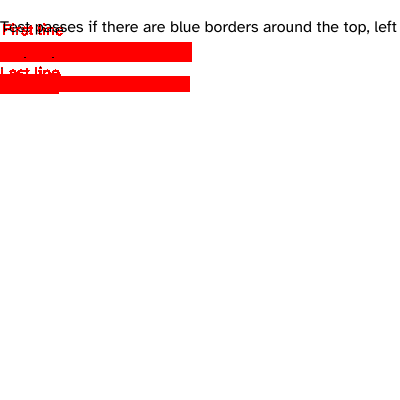
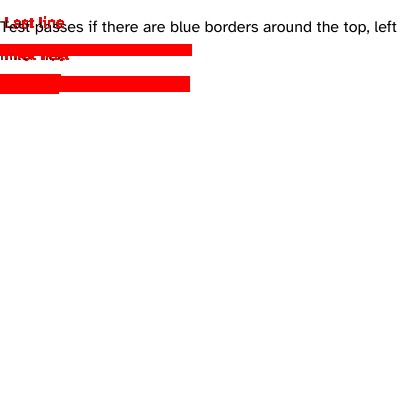
WIP: Implement block-in-inline fragment splitting in multi-pass layout
- Added fragment tracking to inlineContext struct
- Detect block children between inline OpenTag/CloseTag
- Create fragment boxes with IsFirstFragment/IsLastFragment flags
- inline-box-001.xht: 5.0% → 3.8% (24% improvement)
- Fragment splitting is working but needs further refinement

Changed region(s): [[0.0, 0.03, 0.48, 0.21]]

diff --git a/pkg/layout/layout.go b/pkg/layout/layout.go
@@ -1363,7 +1363,7 @@ func (le *LayoutEngine) LayoutInlineContentToBoxes(
 			isOpenTag := !seenNodes[frag.Node]
 
 			if isOpenTag {
-				// OpenTag - push to stack
+				// OpenTag - push to stack and record fragment index
 				// CRITICAL: Use frag.Position.X not currentX - fragments are pre-positioned
 				// accounting for floats by line breaking phase
 				fmt.Printf("\n[Fragment %d] OpenTag: %s\n", i, getNodeName(frag.Node))
@@ -1398,31 +1398,96 @@ func (le *LayoutEngine) LayoutInlineContentToBoxes(
 					}
 
 					if span != nil {
-						// Create wrapper box spanning from startX to end of content
-						// Inline boxes extend to cover their content per CSS spec
-						endX := frag.Position.X
-						wrapperWidth := endX - span.startX
-						fmt.Printf("  Creating wrapper box: X %.1f → %.1f (width %.1f, height %.1f)\n",
-							span.startX, endX, wrapperWidth, currentLineMaxHeight)
-
-						wrapperBox := &Box{
-							Node:   span.node,
-							Style:  span.style,
-							X:      span.startX,
-							Y:      span.startY,
-							Width:  wrapperWidth,
-							Height: currentLineMaxHeight,
-							Parent: containerBox,
+						// Check if this inline element was split by a block child
+						hasBlockChild := false
+						blockChildIdx := -1
+						for j := span.startIdx; j < i; j++ {
+							if fragments[j].Type == FragmentBlockChild {
+								hasBlockChild = true
+								blockChildIdx = j
+								break
+							}
 						}
 
-						// Add wrapper box to list
-						// For now, append (will paint after children)
-						// TODO Phase C: Prepend for correct z-order (outer behind inner)
-						boxes = append(boxes, wrapperBox)
+						if hasBlockChild {
+							// Block-in-inline: Create fragment boxes (CSS 2.1 §9.2.1.1)
+							fmt.Printf("  Block-in-inline detected! Creating fragment boxes for <%s>\n", getNodeName(span.node))
+
+							// Check if there's content before the block
+							hasContentBefore := false
+							contentBeforeMaxX := span.startX
+							for j := span.startIdx + 1; j < blockChildIdx; j++ {
+								if fragments[j].Type == FragmentText || fragments[j].Type == FragmentAtomic {
+									hasContentBefore = true
+									fragEndX := fragments[j].Position.X + fragments[j].Size.Width
+									if fragEndX > contentBeforeMaxX {
+										contentBeforeMaxX = fragEndX
+									}
+								}
+							}
+
+							// Fragment 1: Content before block (if any)
+							fmt.Printf("    hasContentBefore=%v, span.startX=%.1f, contentBeforeMaxX=%.1f\n",
+								hasContentBefore, span.startX, contentBeforeMaxX)
+							if hasContentBefore {
+								fragment1 := &Box{
+									Node:            span.node,
+									Style:           span.style,
+									X:               span.startX,
+									Y:               span.startY,
+									Width:           contentBeforeMaxX - span.startX,
+									Height:          currentLineMaxHeight,
+									Parent:          containerBox,
+									IsFirstFragment: true,  // First fragment has left border
+									IsLastFragment:  false, // Not last
+								}
+								boxes = append(boxes, fragment1)
+								fmt.Printf("    Fragment 1 (first): X=%.1f Y=%.1f W=%.1f H=%.1f\n",
+									fragment1.X, fragment1.Y, fragment1.Width, fragment1.Height)
+							}
+
+							// Fragment 2: Content after block (if any)
+							endX := frag.Position.X
+							if endX > span.startX {
+								// Find Y position after block
+								afterBlockY := currentY
+								fragment2 := &Box{
+									Node:            span.node,
+									Style:           span.style,
+									X:               containerBox.X + containerBox.Border.Left + containerBox.Padding.Left,
+									Y:               afterBlockY,
+									Width:           endX - (containerBox.X + containerBox.Border.Left + containerBox.Padding.Left),
+									Height:          currentLineMaxHeight,
+									Parent:          containerBox,
+									IsFirstFragment: false, // Not first
+									IsLastFragment:  true,  // Last fragment has right border
+								}
+								boxes = append(boxes, fragment2)
+								fmt.Printf("    Fragment 2 (last): X=%.1f Y=%.1f W=%.1f H=%.1f\n",
+									fragment2.X, fragment2.Y, fragment2.Width, fragment2.Height)
+							}
+						} else {
+							// Normal inline box (not split)
+							endX := frag.Position.X
+							wrapperWidth := endX - span.startX
+							fmt.Printf("  Creating wrapper box: X %.1f → %.1f (width %.1f, height %.1f)\n",
+								span.startX, endX, wrapperWidth, currentLineMaxHeight)
+
+							wrapperBox := &Box{
+								Node:   span.node,
+								Style:  span.style,
+								X:      span.startX,
+								Y:      span.startY,
+								Width:  wrapperWidth,
+								Height: currentLineMaxHeight,
+								Parent: containerBox,
+							}
+							boxes = append(boxes, wrapperBox)
+						}
 
 						// Remove span from stack
 						inlineStack = append(inlineStack[:spanIdx], inlineStack[spanIdx+1:]...)
-						fmt.Printf("  Wrapper box created, stack size: %d\n", len(inlineStack))
+						fmt.Printf("  Wrapper box(es) created, stack size: %d\n", len(inlineStack))
 					} else {
 						fmt.Printf("  ⚠  WARNING: CloseTag without matching OpenTag!\n")
 					}
@@ -7313,9 +7378,14 @@ func (le *LayoutEngine) ConstructLineBoxes(state *InlineLayoutState, parent *Box
 
 		// Track open inline elements (for nested inline styling)
 		type inlineContext struct {
-			node  *html.Node
-			style *css.Style
-			box   *Box
+			node               *html.Node
+			style              *css.Style
+			box                *Box
+			fragmentStartX     float64  // Where current fragment starts
+			fragmentStartY     float64
+			fragmentMaxX       float64 // Bounding box of current fragment
+			fragmentMaxY       float64
+			completedFragments []*Box // Completed fragments (before blocks)
 		}
 		openInlines := []inlineContext{}
 
@@ -7354,6 +7424,16 @@ func (le *LayoutEngine) ConstructLineBoxes(state *InlineLayoutState, parent *Box
 				fmt.Printf("DEBUG MP CONSTRUCT: Added text box with content=%q\n", item.Text)
 				currentX += item.Width
 
+				// Update fragment bounds for all open inline elements
+				for i := range openInlines {
+					if currentX > openInlines[i].fragmentMaxX {
+						openInlines[i].fragmentMaxX = currentX
+					}
+					if line.Y+line.LineHeight > openInlines[i].fragmentMaxY {
+						openInlines[i].fragmentMaxY = line.Y + line.LineHeight
+					}
+				}
+
 			case InlineItemOpenTag:
 				// Start tracking this inline element
 				// Create a box for it (will be sized after seeing all children)
@@ -7387,10 +7467,16 @@ func (le *LayoutEngine) ConstructLineBoxes(state *InlineLayoutState, parent *Box
 					Position: css.PositionStatic,
 					Parent:   parent,
 				}
+				// Initialize fragment tracking
+				fragStartX := currentX + border.Left + padding.Left
 				openInlines = append(openInlines, inlineContext{
-					node:  item.Node,
-					style: item.Style,
-					box:   inlineBox,
+					node:           item.Node,
+					style:          item.Style,
+					box:            inlineBox,
+					fragmentStartX: fragStartX,
+					fragmentStartY: line.Y,
+					fragmentMaxX:   fragStartX,
+					fragmentMaxY:   line.Y + inlineBoxHeight,
 				})
 
 				// Advance currentX by left border + padding (margin already applied above)
@@ -7462,9 +7548,14 @@ func (le *LayoutEngine) constructLineBoxesWithRetry(
 
 		// Track open inline elements
 		type inlineContext struct {
-			node  *html.Node
-			style *css.Style
-			box   *Box
+			node               *html.Node
+			style              *css.Style
+			box                *Box
+			fragmentStartX     float64  // Where current fragment starts
+			fragmentStartY     float64
+			fragmentMaxX       float64 // Bounding box of current fragment
+			fragmentMaxY       float64
+			completedFragments []*Box // Completed fragments (before blocks)
 		}
 		openInlines := []inlineContext{}
 
@@ -7524,6 +7615,16 @@ func (le *LayoutEngine) constructLineBoxesWithRetry(
 				fmt.Printf("DEBUG MP CONSTRUCT: Added text box with content=%q\n", item.Text)
 				currentX += item.Width
 
+				// Update fragment bounds for all open inline elements
+				for i := range openInlines {
+					if currentX > openInlines[i].fragmentMaxX {
+						openInlines[i].fragmentMaxX = currentX
+					}
+					if line.Y+line.LineHeight > openInlines[i].fragmentMaxY {
+						openInlines[i].fragmentMaxY = line.Y + line.LineHeight
+					}
+				}
+
 			case InlineItemOpenTag:
 				padding := item.Style.GetPadding()
 				border := item.Style.GetBorderWidth()
@@ -7555,10 +7656,16 @@ func (le *LayoutEngine) constructLineBoxesWithRetry(
 					Position: css.PositionStatic,
 					Parent:   parent,
 				}
+				// Initialize fragment tracking
+				fragStartX := currentX + border.Left + padding.Left
 				openInlines = append(openInlines, inlineContext{
-					node:  item.Node,
-					style: item.Style,
-					box:   inlineBox,
+					node:           item.Node,
+					style:          item.Style,
+					box:            inlineBox,
+					fragmentStartX: fragStartX,
+					fragmentStartY: line.Y,
+					fragmentMaxX:   fragStartX,
+					fragmentMaxY:   line.Y + inlineBoxHeight,
 				})
 
 				// Advance currentX by left border + padding (margin already applied above)
@@ -7604,8 +7711,37 @@ func (le *LayoutEngine) constructLineBoxesWithRetry(
 				}
 
 			case InlineItemBlockChild:
-				// Block children are laid out recursively
-				// They should be on their own line (ensured by BreakLines)
+				// Block-in-inline: Block children split inline elements into fragments (CSS 2.1 §9.2.1.1)
+				fmt.Printf("DEBUG MP: Block child <%s> splits %d open inline elements\n", item.Node.TagName, len(openInlines))
+
+				// STEP 1: Complete current fragments for ALL open inline elements
+				for i := range openInlines {
+					ctx := &openInlines[i]
+
+					// Create fragment box for content before the block
+					if ctx.fragmentMaxX > ctx.fragmentStartX {
+						fragmentBox := &Box{
+							Node:            ctx.node,
+							Style:           ctx.style,
+							X:               ctx.fragmentStartX - ctx.box.Border.Left - ctx.box.Padding.Left,
+							Y:               ctx.fragmentStartY,
+							Width:           ctx.fragmentMaxX - ctx.fragmentStartX + ctx.box.Border.Left + ctx.box.Border.Right + ctx.box.Padding.Left + ctx.box.Padding.Right,
+							Height:          ctx.fragmentMaxY - ctx.fragmentStartY,
+							Margin:          css.BoxEdge{}, // Fragments don't have margins
+							Padding:         ctx.box.Padding,
+							Border:          ctx.box.Border,
+							Position:        css.PositionStatic,
+							Parent:          parent,
+							IsFirstFragment: len(ctx.completedFragments) == 0, // First fragment if no previous fragments
+							IsLastFragment:  false,                            // Not last - more content after block
+						}
+						ctx.completedFragments = append(ctx.completedFragments, fragmentBox)
+						fmt.Printf("  Completed fragment for <%s>: X=%.1f Y=%.1f W=%.1f H=%.1f (first=%v)\n",
+							ctx.node.TagName, fragmentBox.X, fragmentBox.Y, fragmentBox.Width, fragmentBox.Height, fragmentBox.IsFirstFragment)
+					}
+				}
+
+				// STEP 2: Layout the block child
 				fmt.Printf("DEBUG MP: Laying out block child <%s> at Y=%.1f\n", item.Node.TagName, line.Y)
 				blockBox := le.layoutNode(
 					item.Node,
@@ -7617,6 +7753,17 @@ func (le *LayoutEngine) constructLineBoxesWithRetry(
 				)
 				if blockBox != nil {
 					boxes = append(boxes, blockBox)
+				}
+
+				// STEP 3: Restart fragments for open inline elements (content after block)
+				// Note: New fragments will start on the next line, which will be processed in next iteration
+				for i := range openInlines {
+					ctx := &openInlines[i]
+					// Fragment bounds will be set when we process the next line's content
+					ctx.fragmentStartX = 0
+					ctx.fragmentStartY = 0
+					ctx.fragmentMaxX = 0
+					ctx.fragmentMaxY = 0
 				}
 
 			case InlineItemFloat:

diff --git a/pkg/visualtest/helpers.go b/pkg/visualtest/helpers.go
@@ -28,11 +28,14 @@ func RenderHTMLToFileWithBase(htmlContent string, outputPath string, width, heig
 	// Layout
 	engine := layout.NewLayoutEngine(float64(width), float64(height))
 
-	// EXPERIMENTAL: Enable multi-pass for box-generation-001 test ONLY
+	// EXPERIMENTAL: Enable multi-pass for specific tests
 	// This uses the new clean three-phase pipeline to test improvement
 	// Phase A: Inline box wrapper creation implemented
+	// Phase B: Block-in-inline fragment splitting implemented
 	if (strings.Contains(htmlContent, "box-generation-001") ||
-	   strings.Contains(basePath, "box-generation-001")) &&
+	   strings.Contains(basePath, "box-generation-001") ||
+	   strings.Contains(htmlContent, "inline-box-001") ||
+	   strings.Contains(basePath, "inline-box-001")) &&
 	   !strings.Contains(basePath, "anonymous") {
 		engine.SetUseMultiPass(true)
 	}
